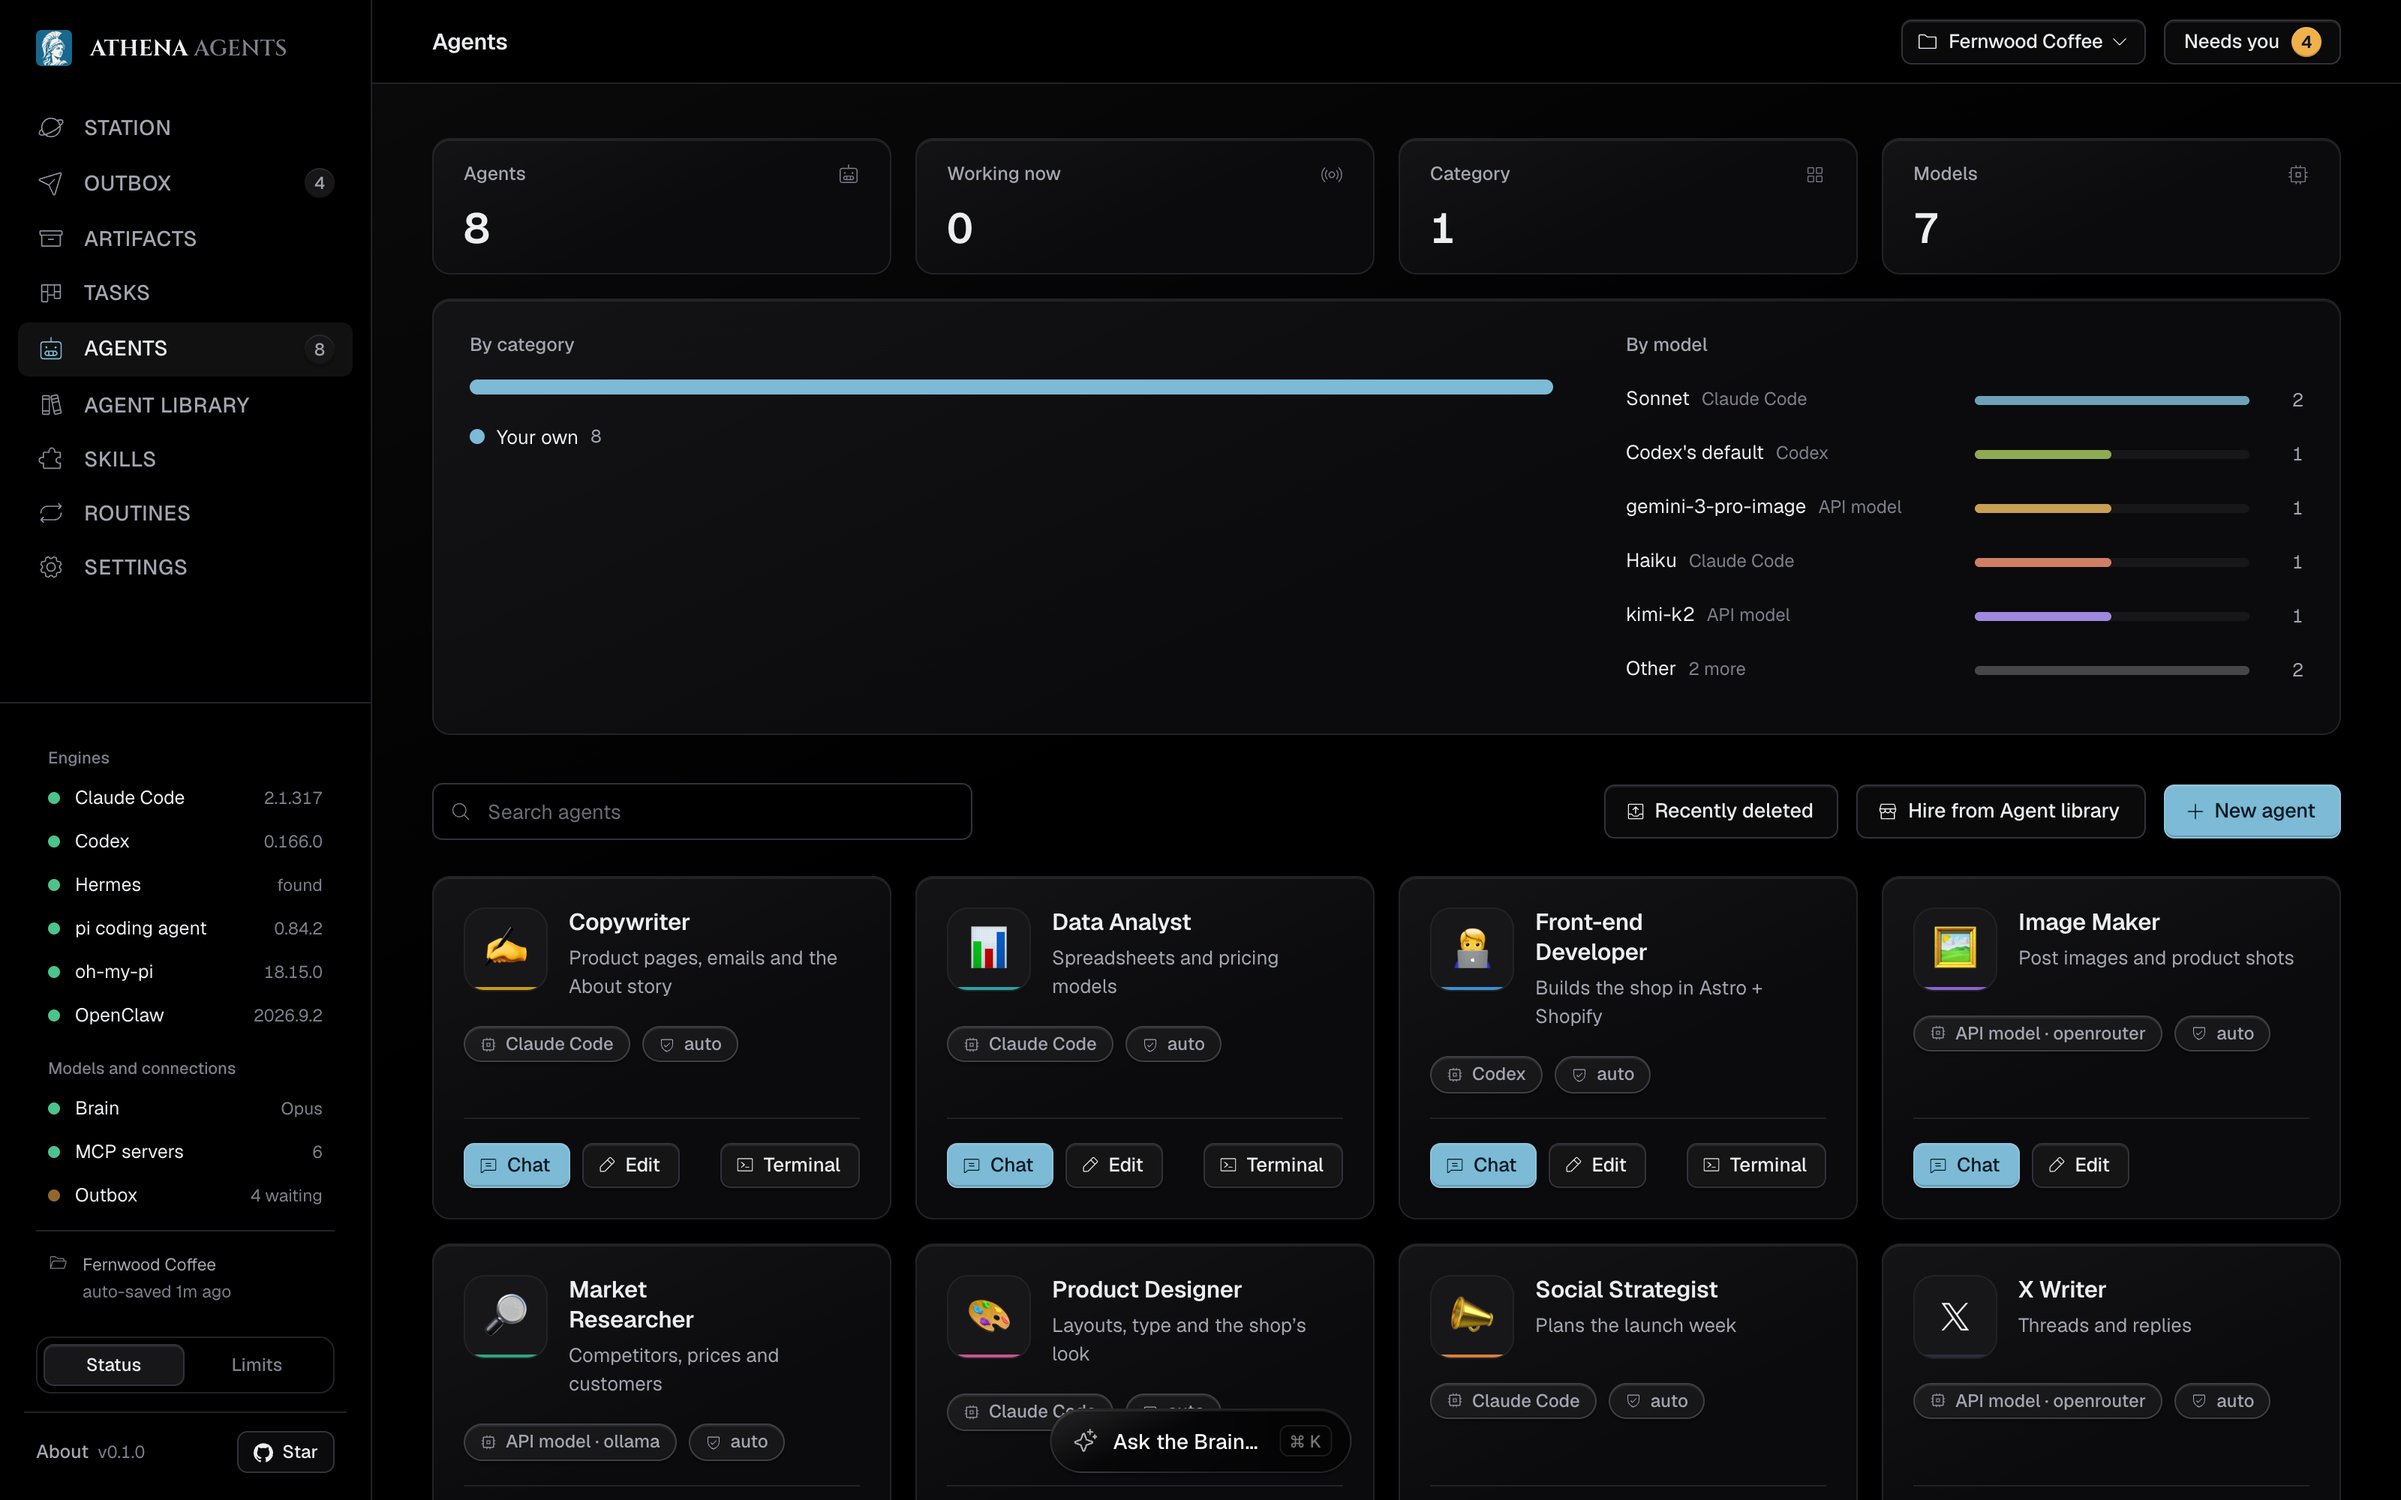
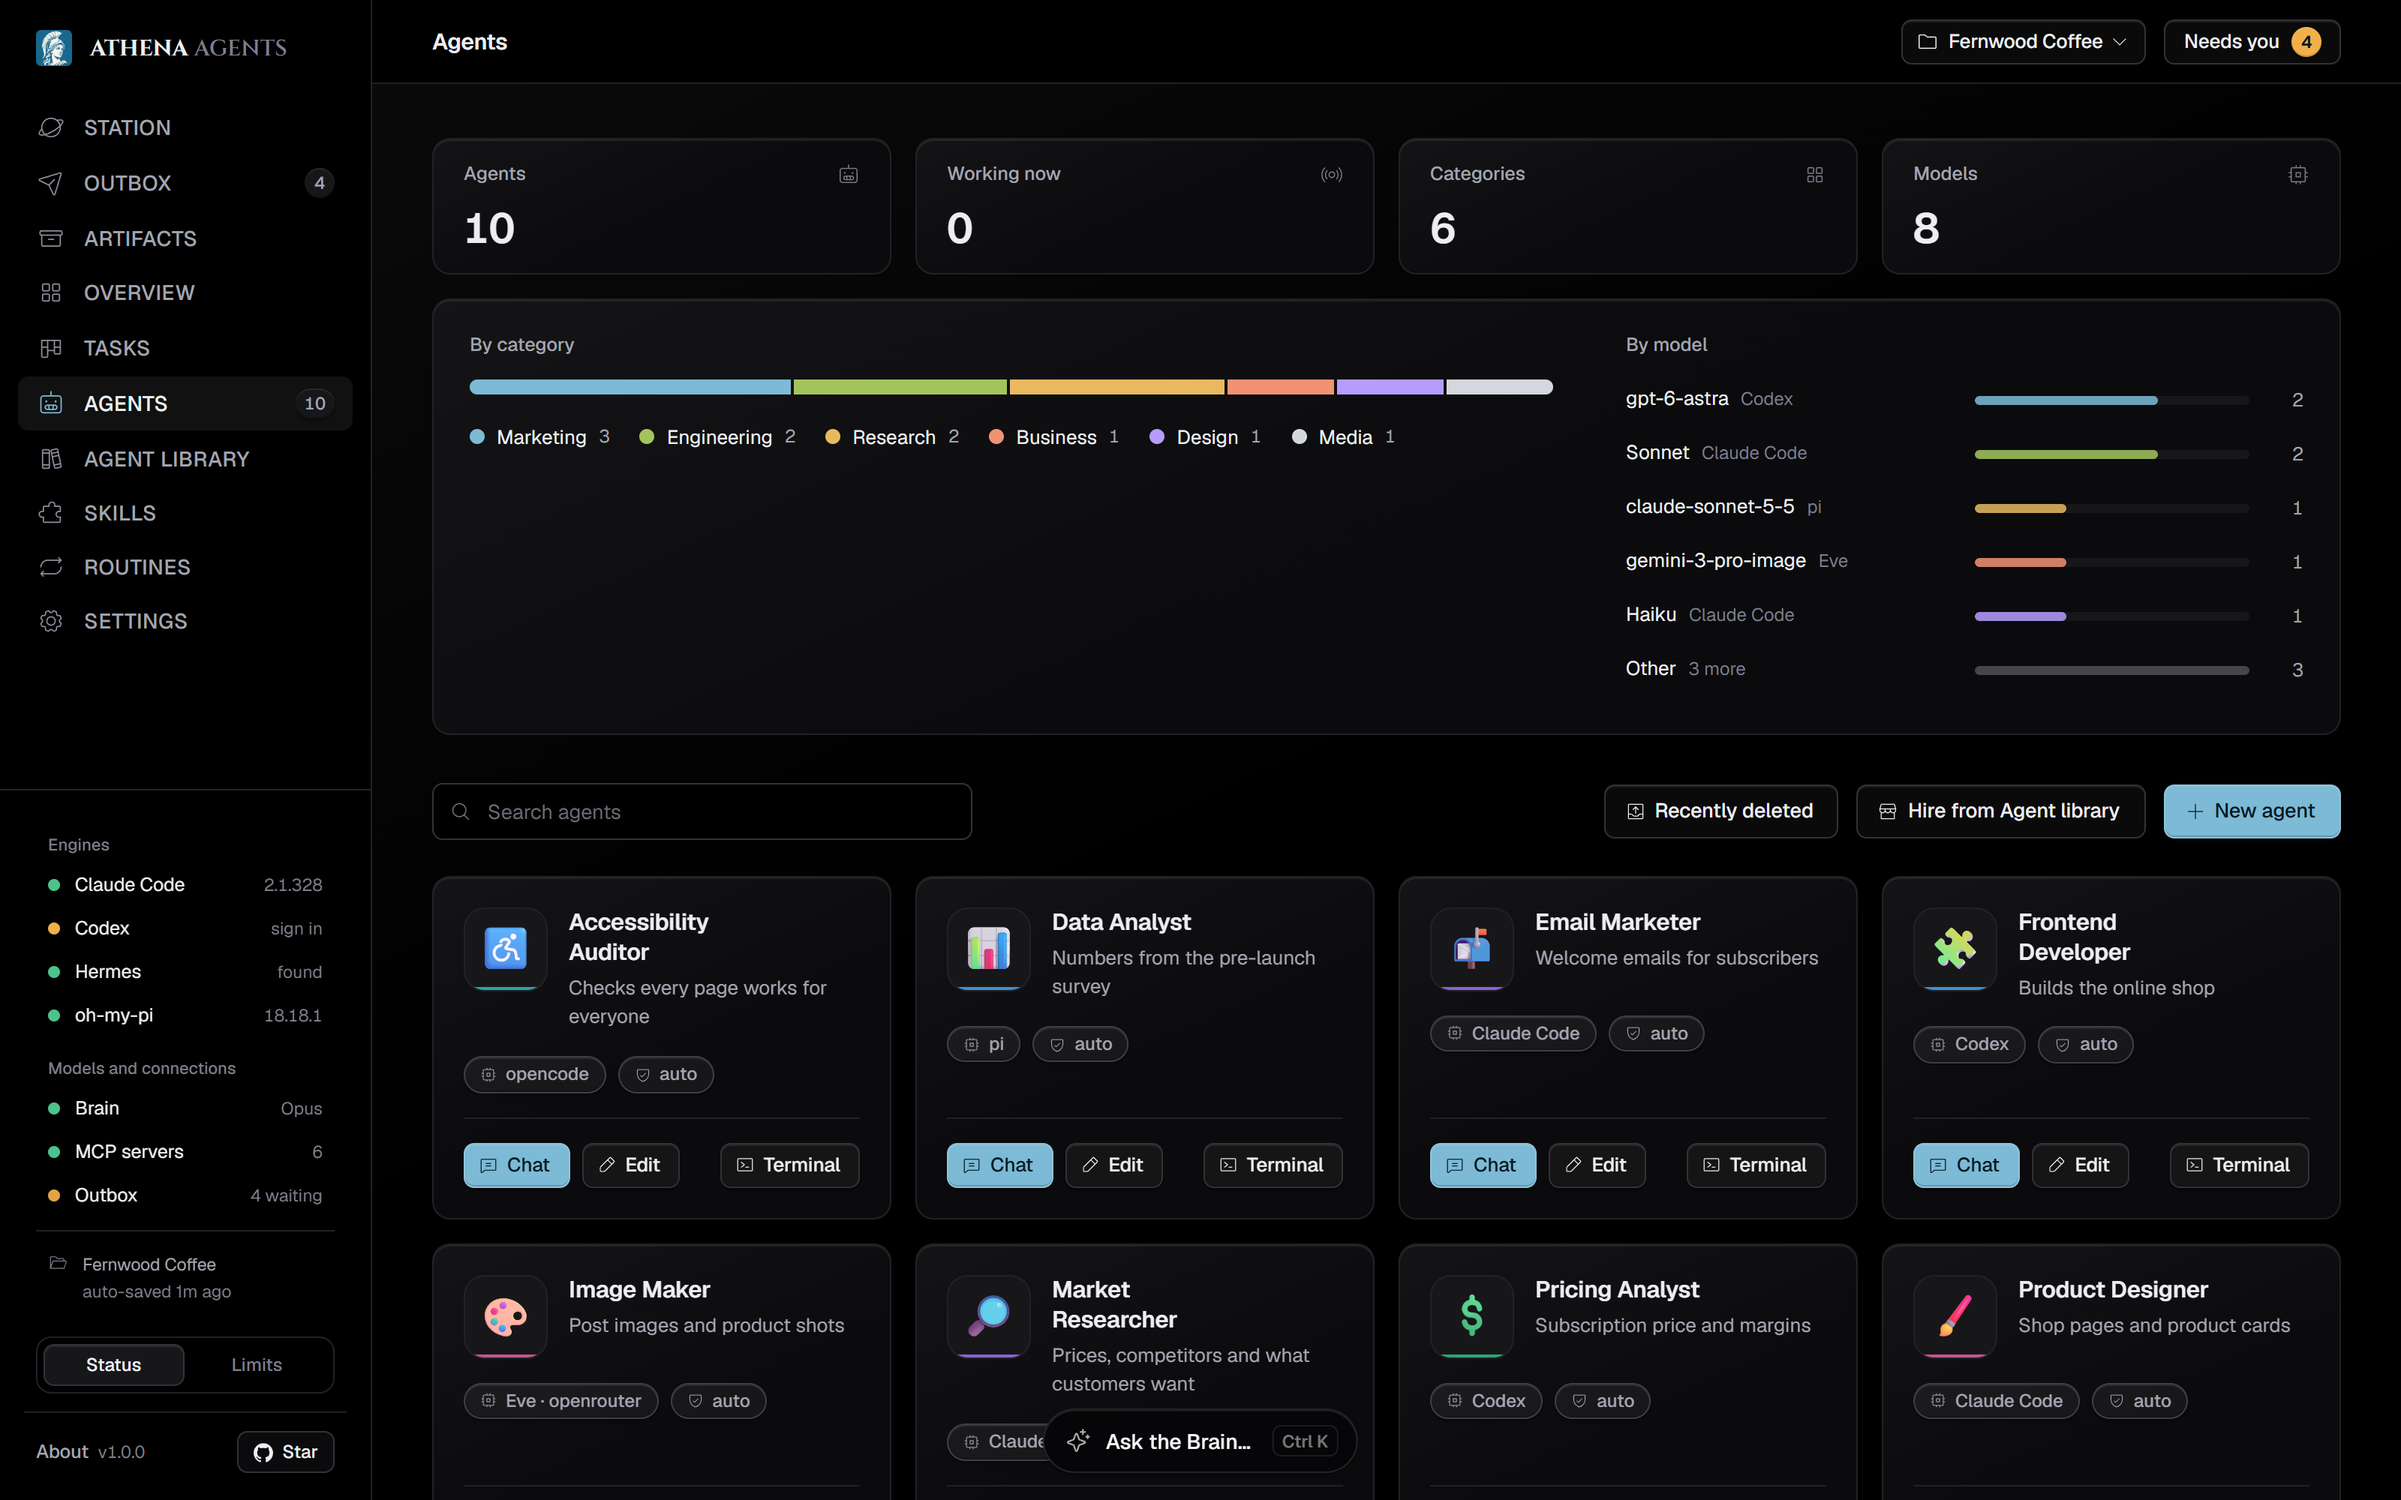
Docs: new screenshots, and a README that covers learning, memory, steering and Athena's own agents
- docs/images: every screenshot and the social preview card taken again from a
  made-up coffee shop project on version 1.0.0 (tags on tasks, Overview in the
  sidebar, the Chats button, opencode and the gateway icons).
- README: why Athena now covers learning and reaching it from anywhere; team
  chats cover messages while agents work and the / commands; Skills lists the
  skills that come with the app; a Memory item; the Agent library is Athena's
  own, and agency-agents is no longer credited. A Website link to the landing page.

diff --git a/README.md b/README.md
@@ -16,7 +16,7 @@
 </p>
 
 <p align="center">
-  <a href="#get-started">Get started</a> · <a href="#connect-a-model">Connect a model</a> · <a href="#a-tour">A tour</a> · <a href="#safety">Safety</a> · <a href="#your-data">Your data</a> · <a href="#development">Development</a> · <a href="docs/guide.md">Full guide</a>
+  <a href="https://ai2070.net/athena-agents">Website</a> · <a href="#get-started">Get started</a> · <a href="#connect-a-model">Connect a model</a> · <a href="#a-tour">A tour</a> · <a href="#safety">Safety</a> · <a href="#your-data">Your data</a> · <a href="#development">Development</a> · <a href="docs/guide.md">Full guide</a>
 </p>
 
 <p align="center">
@@ -29,6 +29,8 @@
 - **Describe the job, get a team.** Tell the Brain what you want done. It sets up the agents, gives them instructions and tools, and hands out the work.
 - **Use any model, mix them freely.** Claude Code, OpenAI Codex, Hermes, pi, oh-my-pi, OpenClaw, opencode, or any OpenAI-compatible API, including local models through Ollama and LM Studio. One team can use several.
 - **You stay in charge.** Risky steps wait for your OK. Agents ask you when they're stuck. Posts and messages sit in the Outbox until you approve them.
+- **It learns how you work.** Every agent keeps notes on what you like and what you decided. `/learn` turns a document, a link, a video or a screen recording of you doing a task into a skill any agent can use.
+- **Reach it from anywhere.** Talk to the Brain or a team from Telegram, Slack or Discord, and let GitHub, Stripe or Linear start work with a webhook.
 - **Your work stays with the project.** Each project keeps its own agents, teams, chats and results, saved into its folder and easy to back up.
 
 ## Get started
@@ -100,9 +102,11 @@ Or pick **Scene**: the Station becomes a web page your agents make for the proje
 
 Everyone in a team sees the whole conversation. Your message goes to the lead, or to whoever you @mention. Agents hand work to each other with @mentions and post what they make right in the chat: images, video, audio and 3D models you can turn with the mouse. Write **#Team name** to ask another team.
 
+Change course any time: write while they work and most agents read your message between steps and carry on with it, without starting over. Type **/** for the commands: `/queue` lines up the next message, `/loop` repeats one (`/loop 15m check the build`), `/goal` says what done looks like, and `/learn` makes a skill. When you ask for real work, the Brain checks it got done and follows up, and anything that needs you lands in **Needs you**.
+
 Chats open in floating windows. Drag tabs between windows, snap them side by side, or minimize them with **Ctrl+↓** / **⌘↓**. **New chat** starts a fresh conversation with a team, an agent or the Brain, and **Chats**, next to **Tasks** at the top of the chat, opens the earlier ones to pick up again or delete.
 
-![The Launch team's chat with two finished images, next to the team panel listing its members and their models](docs/images/team-chat.png)
+![The Launch team's chat with the launch card the X Writer made, next to the team panel listing its members and their models](docs/images/team-chat.png)
 
 ### The Outbox: nothing goes out without you
 
@@ -120,17 +124,17 @@ A board for the project's work: To do, In progress, In review, Blocked and Done.
 
 Everything the teams finished, in one place: written results, files and folders, each with a preview, who made it, for which team, and when.
 
-![The Artifacts page with a launch plan and a coffee bag label image](docs/images/artifacts.png)
+![The Artifacts page with a coffee bag label image and a launch plan](docs/images/artifacts.png)
 
 ### Agents, with any model
 
 Every agent has its own instructions, knowledge, memory, model, skills, tools and workspace. The Agents page shows how many are working and which models they use.
 
-![The Agents page: eight agents, a chart of the models they use, and a card for each agent with its engine](docs/images/agents.png)
+![The Agents page: ten agents, a chart of the models they use, and a card for each agent with its engine](docs/images/agents.png)
 
 ### Agent library
 
-Hire a specialist with its instructions already written. 89 agents come with the app, written for it and its tools: engineers, designers, marketers, researchers, a bookkeeper, a World Builder for the voxel world, a Scene Builder for the Station's scene and more. Each one starts with the tools and skills its work needs, and takes on nearby work too: its role is where it's strongest, not a limit. **Add Athena team** on Home hires the starter team (a Coordinator, an X Writer, an Image Maker, a Researcher…) in one click. You can also use your Hermes profiles, Claude Code subagents and your own presets.
+Hire a specialist with its instructions already written. 89 agents come with the app, Athena's own, written for it and its tools: engineers, designers, marketers, researchers, a bookkeeper, a World Builder for the voxel world, a Scene Builder for the Station's scene and more. Each one starts with the tools and skills its work needs, and takes on nearby work too: its role is where it's strongest, not a limit. **Add Athena team** on Home hires the starter team (a Coordinator, an X Writer, an Image Maker, a Researcher…) in one click. You can also use your Hermes profiles, Claude Code subagents and your own presets.
 
 ![The Agent library: specialists by category, with a choice of which engine they run on](docs/images/library.png)
 
@@ -144,7 +148,8 @@ Connect agents to programs and services with the Model Context Protocol. Add ser
 
 - **Overview:** every project's agents, teams, Brain and tasks at work on one page, with what needs you first. Open their chats side by side and write to another project's agents without switching to it.
 - **Chat gateways:** talk to the Brain, a team or an agent from Telegram, Slack or Discord, files included. Each bot answers only the people and channels you let in, and nothing on your computer is opened to the internet.
-- **Skills:** instructions in plain words ("our brand voice", "how we test checkout"), shared across agents and teams.
+- **Skills:** instructions in plain words ("our brand voice", "how we test checkout"), shared across agents and teams. Athena's own skills come with the app (debugging, code review, GitHub, PDF, Word, Excel and PowerPoint, research, email, maps, one-take videos…), plus sets for Higgsfield, Cua, Orca, Composio, the storytold Crafting Apps and motion graphics. Write your own in plain words, install one from GitHub, or `/learn` one.
+- **Memory:** every agent and the Brain keep a `MEMORY.md` for each project with how you like things done and what you decided, read with every message. You can read and change it, and History keeps its earlier versions.
 - **Routines:** work you want done again and again, run by hand, on a schedule, or by a webhook from GitHub, Stripe, Linear, Slack and others, shared through Cloudflare or Tailscale in one click.
 - **Programs:** the Programs page finds creative and CAD apps on your computer (Blender, Photoshop, DaVinci Resolve, GIMP, OpenSCAD…) so agents can use them. Agents run your ComfyUI workflows with their own prompts and pictures, and get the images, video, audio and 3D files back.
 - **History:** every agent, team, skill and memory keeps its last 50 versions, so any change can be undone.
@@ -199,8 +204,8 @@ Read [`AGENTS.md`](AGENTS.md) for the code layout, conventions and security rule
 
 Athena Agents is yours to use under either the [MIT license](LICENSE-MIT) or the [Apache License 2.0](LICENSE-APACHE), whichever you prefer. Anything you contribute is offered under the same two licenses unless you say otherwise.
 
-Some bundled parts keep their own licenses: the skills in `skills/` (each folder's `README.md` says where it's from), the list of roles the Agent library started from (MIT, in `library/athena-agents/LICENSE-agency-agents`), the Crafting App icons in `public/craft-icons/` (MIT OR Apache-2.0), Lucide icons (ISC) and Simple Icons logos (CC0). Brand names and logos belong to their owners.
+Some bundled parts keep their own licenses: the skills in `skills/` (each folder's `README.md` says where it's from), the Crafting App icons in `public/craft-icons/` (MIT OR Apache-2.0), Lucide icons (ISC) and Simple Icons logos (CC0). Brand names and logos belong to their owners.
 
 ## Credits
 
-Inspired by [agent-office](https://github.com/AgentSystemLabs/agent-office). The Agent library started from the roles in [agency-agents](https://github.com/msitarzewski/agency-agents).
+Inspired by [agent-office](https://github.com/AgentSystemLabs/agent-office).
